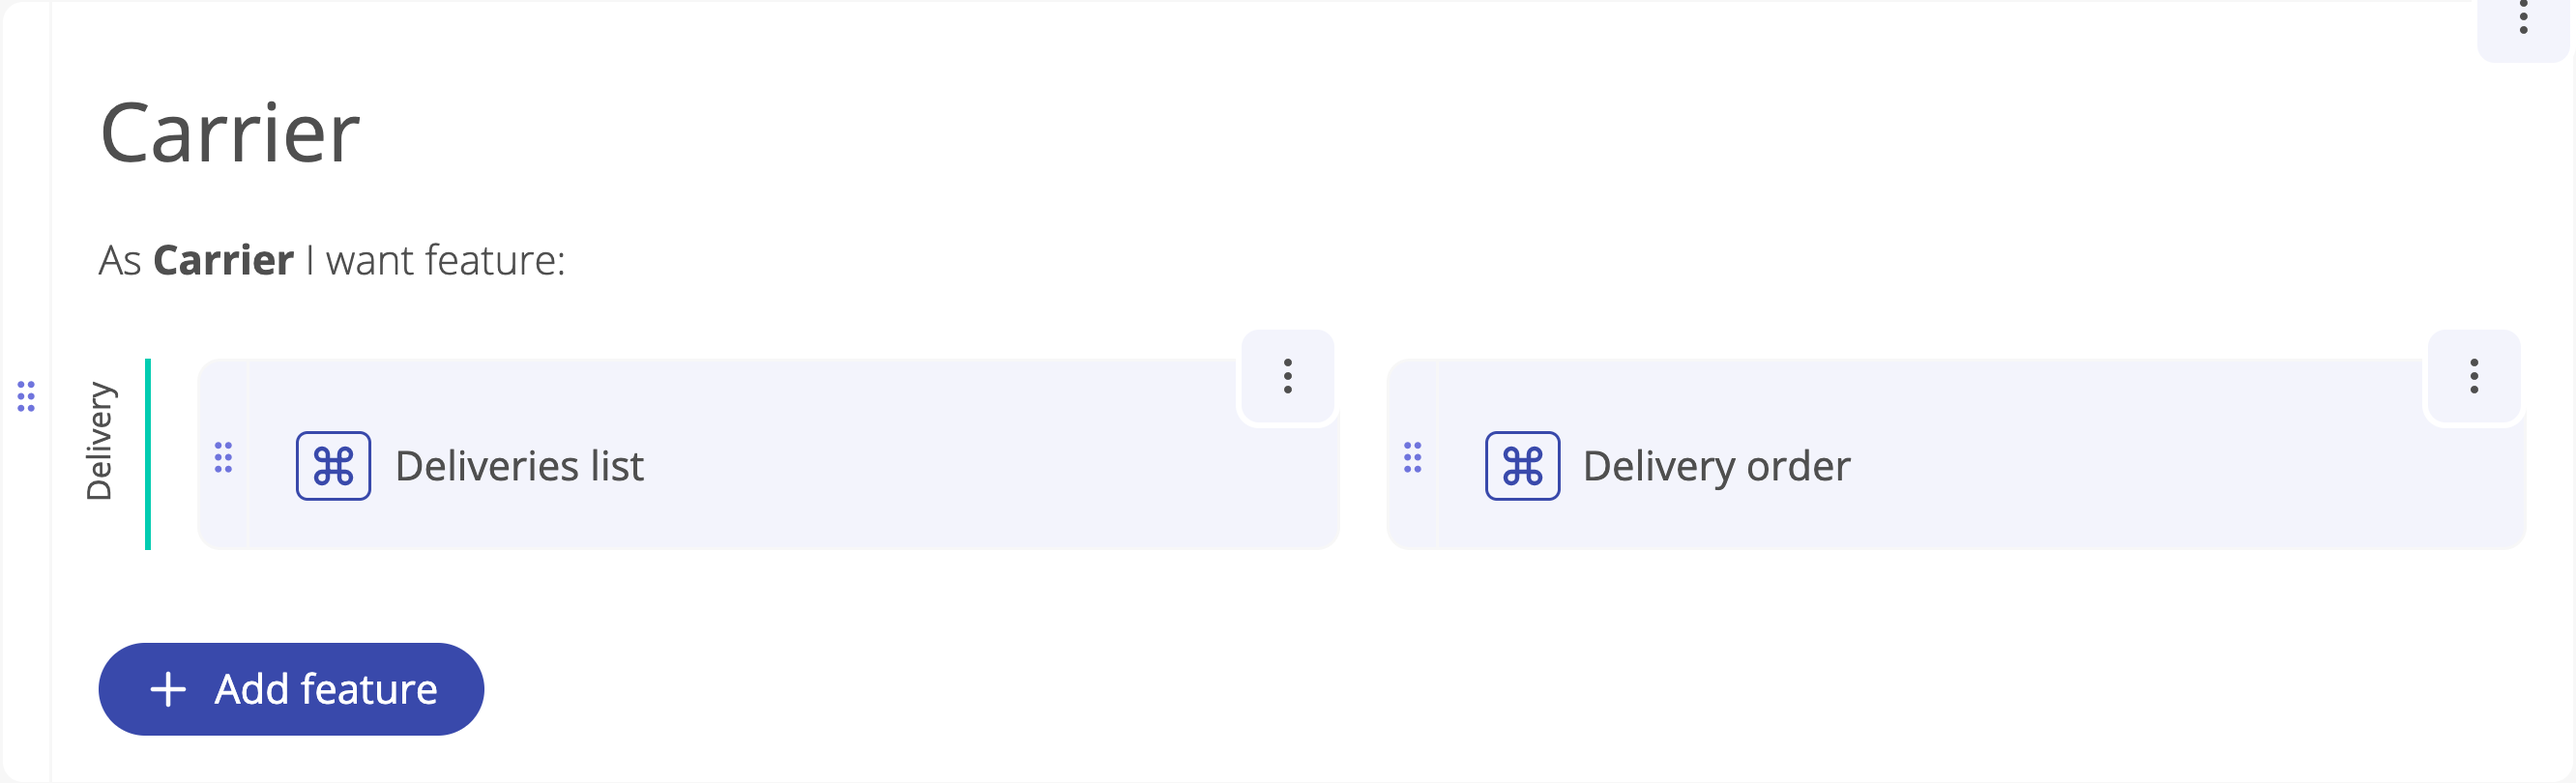
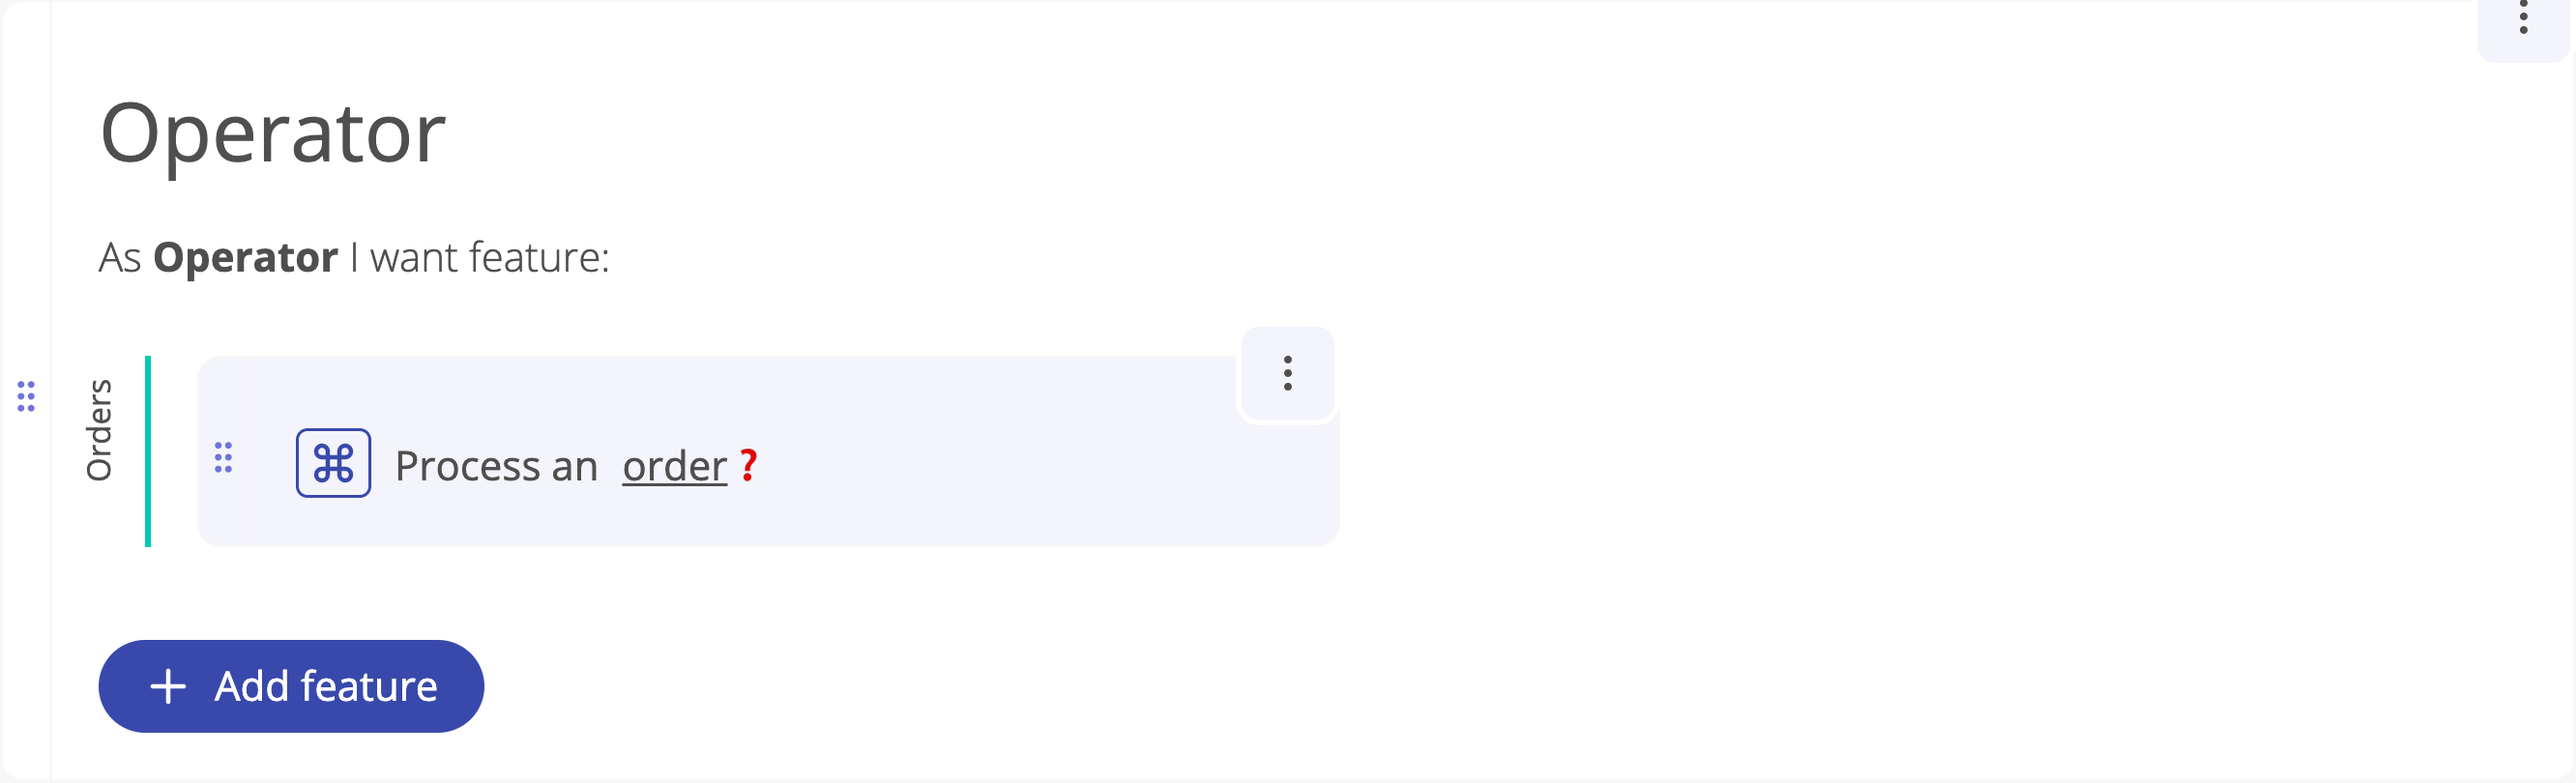
Add features map svg animation #179

diff --git a/src/app/lp/features/features-map/features-map.component.ts b/src/app/lp/features/features-map/features-map.component.ts
@@ -1,11 +1,13 @@
-import { Component, OnInit } from '@angular/core';
+import { Component, HostBinding, OnInit } from '@angular/core';
 import { UI } from '@junte/ui';
-import { animateChild, transition, trigger } from '@angular/animations';
+import { animateChild, group, query, sequence, stagger, state, style, transition, trigger } from '@angular/animations';
+import { fadeInKeyframes, fadeOutKeyframes } from '../../animation';
 
 enum Animation {
   manager = 'manager',
   client = 'client',
-  carrier = 'carrier'
+  carrier = 'carrier',
+  operator = 'operator'
 }
 
 @Component({
@@ -13,15 +15,33 @@ enum Animation {
   templateUrl: './features-map.component.html',
   styleUrls: ['./features-map.component.scss'],
   animations: [
+    trigger('animate', [
+      transition(':enter', [
+        fadeInKeyframes,
+        query(':enter', fadeInKeyframes, {params: {duration: '.5s', delay: '0s'}}),
+        query(':leave', fadeOutKeyframes, {params: {duration: '.5s', delay: '0s'}, optional: true}),
+        query('@slide', fadeOutKeyframes, {params: {duration: '.5s', delay: '0s'}, optional: true}),
+        query('@done', stagger('.8s', animateChild()), {delay: '.6s'}),
+      ], {params: {duration: '.5s', delay: '0s'}})
+    ]),
     trigger('slide', [
       transition(':enter, :leave', [animateChild()])
-    ])
+    ]),
+    trigger('done', [
+      state('void', style({opacity: '1'})),
+      state('*', style({opacity: '0'})),
+      transition('void => *', fadeOutKeyframes, {params: {duration: '.5s', delay: '0s'}})
+    ]),
   ]
 })
 export class FeaturesMapComponent implements OnInit {
 
   ui = UI;
   animations = Animation;
+
+  @HostBinding('@animate')
+  animate = true;
+
   animation: Animation = Animation.client;
 
   constructor() {

diff --git a/src/app/lp/features/features-map/features-map.component.html b/src/app/lp/features/features-map/features-map.component.html
@@ -1,5 +1,16 @@
 <ng-container [ngSwitch]="animation">
-  <spec-lp-client [@slide] *ngSwitchCase="animations.client" (done)="animation = animations.manager"></spec-lp-client>
-  <spec-lp-manager [@slide] *ngSwitchCase="animations.manager" (done)="animation = animations.carrier"></spec-lp-manager>
-  <spec-lp-currier [@slide] *ngSwitchCase="animations.carrier"></spec-lp-currier>
+  <svg [@slide] *ngSwitchCase="animations.client" viewBox="0 0 864 500">
+    <image href="assets/images/lp/features/features/client.png" width="100%" height="100%"></image>
+    <rect [@done] x="66" y="133" width="385" height="75" rx="5" style="fill: white"/>
+    <rect [@done] x="465" y="133" width="385" height="75" rx="5" style="fill: white"/>
+    <rect [@done] x="66" y="228" width="385" height="75" rx="5" style="fill: white"/>
+    <rect [@done] x="465" y="228" width="385" height="75" rx="5" style="fill: white"/>
+    <rect [@done] x="66" y="323" width="385" height="75" rx="5" style="fill: white"
+          (@done.done)="animation = animations.operator"/>
+  </svg>
+  <svg [@slide] *ngSwitchCase="animations.operator" viewBox="0 0 864 500">
+    <image href="assets/images/lp/features/features/operator.png" width="100%" height="100%"></image>
+    <rect [@done] x="66" y="133" width="385" height="75" rx="5" style="fill: white"/>
+  </svg>
 </ng-container>
+

diff --git a/src/app/lp/features/features-map/features-map.module.ts b/src/app/lp/features/features-map/features-map.module.ts
@@ -2,16 +2,10 @@ import { CommonModule } from '@angular/common';
 import { NgModule } from '@angular/core';
 import { FeaturesMapComponent } from './features-map.component';
 import { LabelModule, StackModule } from '@junte/ui';
-import { ClientComponent } from './client/client.component';
-import { ManagerComponent } from './manager/manager.component';
-import { CurrierComponent } from './currier/currier.component';
 
 @NgModule({
   declarations: [
-    FeaturesMapComponent,
-    ClientComponent,
-    ManagerComponent,
-    CurrierComponent
+    FeaturesMapComponent
   ],
   exports: [
     FeaturesMapComponent

diff --git a/src/app/lp/features/features.component.ts b/src/app/lp/features/features.component.ts
@@ -44,7 +44,7 @@ export class FeaturesComponent {
   ui = UI;
   features = Feature;
 
-  active = Feature.cleanWorkflow;
+  active = Feature.featuresMap; // temporary
 
   constructor(public route: ActivatedRoute,
               public router: Router) {
